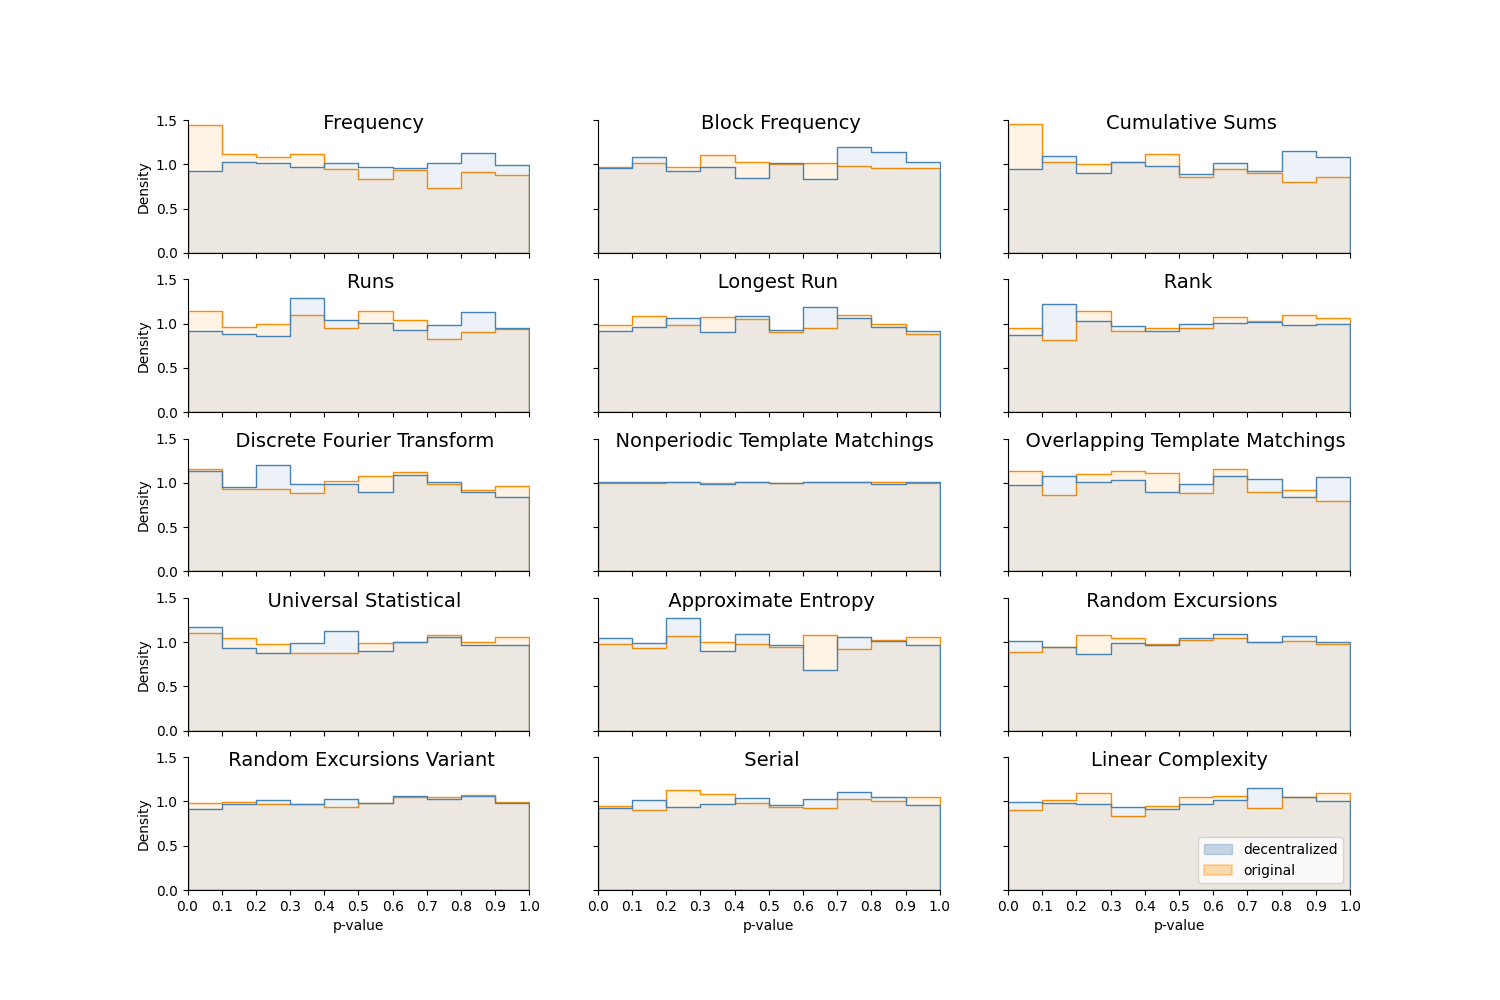
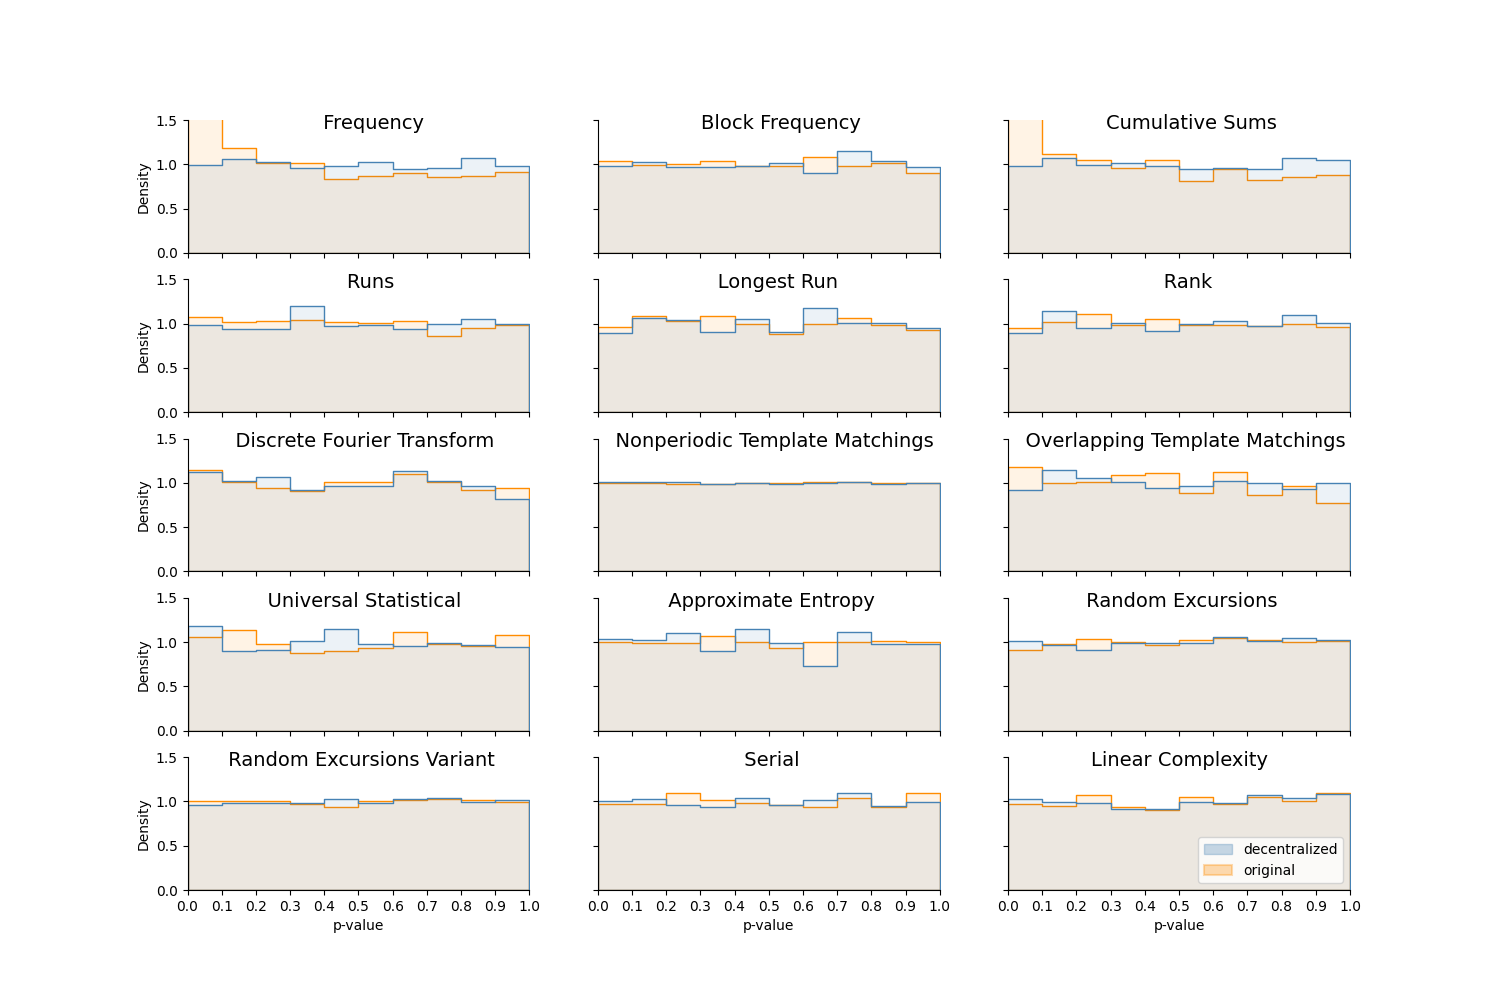
results graph (without 'discussion section')

diff --git a/report/Texts/5.Evaluations.tex b/report/Texts/5.Evaluations.tex
@@ -72,7 +72,7 @@ Each test produces a p-value representing how likely the data could be produced 
 If the data are truly random, the distribution of p-values across many samples should itself follow a uniform distribution.
 
 We compare the statistical results of our implementation with those of the original Sphinx implementation by Danezis\footnote{\href{https://github.com/UCL-InfoSec/sphinx}{https://github.com/UCL-InfoSec/sphinx}}.
-All graphs presented in this section correspond to the results of the NIST statistical test suite applied to {\color{red}20} distinct datasets.
+All graphs presented in this section correspond to the results of the NIST statistical test suite applied to 20 distinct datasets.
 Each dataset is generated under a different setup configuration to assess the variability and robustness of our implementation.
 
 To generate a dataset, we simulate a network of 20 mixnodes and 3 trusted third parties (TTPs). 
@@ -84,82 +84,53 @@ According to the NIST documentation, the statistical test suite requires input s
 To meet this requirement, generated headers are concatenated until the total length reaches $1\,000\,000$ bits. 
 Each dataset contains 100 of those concatenated sequences.
 
+NIST outlines two approaches for interpreting the empirical results of its statistical test suite.
+The first assesses the proportion of sequences that pass each statistical test, as shown in Fig.\ref{fig:proportion}.
+The second evaluates whether the distribution of p-values is statistically uniform, as would be expected from random sequences.
+These results are presented in Fig.\ref{fig:chisquare}.
 
-NIST outlines two approaches for interpreting the empirical results of its statistical test suite. 
-The first approach analyzes the proportion of sequences that successfully pass a given statistical test. 
-The second examines whether the distribution of p-values is uniform, as would be expected from a truly random source.
-
-\subsubsection{Proportion of successful sequences}
-
-\begin{figure}[H]
+\begin{figure}
     \centering
     % \hspace*{-1cm}
-    \includegraphics[width=1.\linewidth]{Images/proportion.png}
-    \caption{Proportion of successful sequences from our implementation and the original Sphinx over the fifteen NIST SP 800-22 statistical tests (significance level = $0.01$).}
+    \includegraphics[width=1.\linewidth]{Images/proportion_dot.png}
+    \caption{Proportion of successful sequences from our implementation and the original Sphinx implementation over the fifteen NIST SP 800-22 statistical tests (significance level = $0.01$).}
     \label{fig:proportion}
 \end{figure}
 
-\subsubsection{Uniformity of P-values}
+Figure \ref{fig:proportion} shows the proportion of sequences that successfully pass each statistical test for both our implementation and the original Sphinx implementation.  
+Following the NIST guidelines, the significance level is set to $ \alpha = 0.01 $, and the confidence interval is defined as:
+$$
+(1 - \alpha) \pm 3 \sqrt{\frac{\alpha (1 - \alpha)}{m}},
+$$
+where $ m $ denotes the number of samples.
 
-\begin{figure}[H]
+Our implementation fails only three tests: \textit{Nonperiodic Template Matching}, \textit{Random Excursions}, and \textit{Random Excursions Variant}, all of which are also failed by the original Sphinx implementation.  
+In contrast, our implementation successfully passes three tests that the original implementation fails: \textit{Frequency}, \textit{Cumulative Sums}, and \textit{Overlapping Template Matching}.
+
+\begin{figure}
     \centering
-    \hspace*{-2cm}
-    \includegraphics[width=1.3\linewidth]{Images/hist_p-values.png}
+    % \hspace*{-2cm}
+    \includegraphics[width=1.\linewidth]{Images/hist_p-values.png}
     \caption{P-value distribution comparison between our implementation and the original Sphinx across the fifteen NIST SP 800-22 statistical tests.}
     \label{fig:hist_p-values}
 \end{figure}
 
+Figure \ref{fig:hist_p-values} presents the distribution of p-values obtained for each test.  
+This figure is intended solely for visual inspection.   
+A Chi-square test is performed on each histogram to assess their uniformity.
+The results are shown in Figure \ref{fig:chisquare}, with a significance threshold of $0.0001$ as recommended by the NIST guidelines.
+
+Two Chi-square results stand out: the \textit{Frequency} and \textit{Cumulative Sums} tests.  
+Both were successful for our implementation, despite failing for the orignal Sphinx implementation.
+
 \begin{figure}[H]
     \centering
     % \hspace*{-1cm}
-    \includegraphics[width=1.\linewidth]{Images/p-values-of-p-values.png}
+    \includegraphics[width=1.\linewidth]{Images/chisquare.png}
     \caption{Chi-square test assessing the uniformity of p-value distributions for each dataset across the fifteen NIST SP 800-22 statistical tests.}
-    \label{fig:p-values-of-p-values}
+    \label{fig:chisquare}
 \end{figure}
 
-
-
-
-%%%%%%%%
-
-% For our prototype, we simulate a network of 20 mixnodes and 3 TTPs.\newline 
-% At each iteration:
-% \begin{itemize}
-%     \item A random destination IP and path of 3 mixnodes are selected;
-%     \item The client generates shares and distributes them to the three TTPs;
-%     \item 
-% \end{itemize}
-
-% Each run produces 4 headers (one per hop).
-% We perform 100 000 runs, resulting in a 400 000 x 1792 matrix (400 000 headers of 1792 bits).
-% Then we apply the NIST tests to each:
-% \begin{itemize}
-%     \item header independently (i.e. row-wise) to obtain p-value distributions across headers (Figure \ref{fig:sp_800-22_hist_headerwise}).
-%     \item bit independently (i.e. column-wise) to ensure no bias exists in specific bit positions (Figure \ref{fig:sp_800-22_hist_bitwise}).
-% \end{itemize}
-
-% For comparison, we conduct the same evaluation on the original Sphinx implementation by Danezis\footnote{\href{https://github.com/UCL-InfoSec/sphinx}{https://github.com/UCL-InfoSec/sphinx}}, which produces 400 000 headers of 1634 bits. 
-% Figures \ref{fig:sp_800-22_hist_headerwise} and \ref{fig:sp_800-22_hist_bitwise} compare header randomness of our implementation (in orange) with the original implementation (in blue).
-% \begin{figure}[H]
-%     \centering
-%     \includegraphics[width=0.9\linewidth]{Images/25-05-19-runwise_comparison_400000h-20n-3m-3p5.png}
-%     \caption{Distribution of NIST SP 800-22 p-values across 400 000 headers (headerwise evaluation).}
-%     \label{fig:sp_800-22_hist_headerwise}
-% \end{figure}
-% \begin{figure}[H]
-%     \centering
-%     \includegraphics[width=0.9\linewidth]{Images/25-05-19-bitwise_comparison_400000h-20n-3m-3p5.png}
-%     \caption{Distribution of NIST SP 800-22 p-values per bit across 400 000 headers (bitwise evaluation).}
-%     \label{fig:sp_800-22_hist_bitwise}
-% \end{figure}
-
-% Some deviations in the histograms arise from the limited size of the bitstrings (1634 or 1792 bits), which introduces quantization effects. 
-% In particular, the slight distortion in the first test of Figure \ref{fig:sp_800-22_hist_headerwise} reflects the granularity of possible p-values for short inputs. 
-% Variations in Figure \ref{fig:sp_800-22_hist_bitwise} are due to the small amount of p-values (1634 or 1792).
-% Increasing the histogram bin size mitigates these artifacts and confirms that the underlying distributions remain approximately uniform.
-
-% In both evaluations, the distributions of p-values are approximately uniform, which suggests that headers are statistically indistinguishable from random data, 
-% and therefore indicates strong linkability resistance, comparable to the original Sphinx implementation.
 
 \subsection{Discussion}
 
@@ -168,3 +139,53 @@ why they hold. If we have research questions from \ref{sec:related}, answer
 them. Summarize overheads impacts and discuss feasibility in the context of
 Nym.}
 
+\begin{table}[ht]
+\centering
+\caption{Statistical test summary for both implementations (\CIRCLE~=~Pass, \Circle~=\enspace Fail)}
+\begin{tabular}{|l|cc|cc|}
+\hline
+                                & \multicolumn{2}{c|}{\textbf{Decentralized}}   & \multicolumn{2}{c|}{\textbf{Original}} \\
+\cline{2-5}
+                                & \textbf{\tiny Excessive}    & \textbf{\tiny Lacks}        & \textbf{\tiny Excessive} & \textbf{\tiny Lacks} \vspace*{-1.5mm} \\
+\textbf{Statistical Test}       & \textbf{\tiny Rejections}   & \textbf{\tiny Uniformity}   & \textbf{\tiny Rejections} & \textbf{\tiny Uniformity} \\
+\hline
+Frequency                       & \CIRCLE               & \CIRCLE               & \Circle            & \Circle     \\
+Block Frequency                 & \CIRCLE               & \CIRCLE               & \CIRCLE            & \CIRCLE     \\
+Cumulative Sums                 & \CIRCLE               & \CIRCLE               & \Circle            & \Circle     \\
+Runs                            & \CIRCLE               & \CIRCLE               & \CIRCLE            & \CIRCLE     \\
+Longest Run                     & \CIRCLE               & \CIRCLE               & \CIRCLE            & \CIRCLE     \\
+Rank                            & \CIRCLE               & \CIRCLE               & \CIRCLE            & \CIRCLE     \\
+Discrete Fourier Transform      & \CIRCLE               & \CIRCLE               & \CIRCLE            & \CIRCLE     \\
+Nonperiodic Template Matchings  & \Circle               & \CIRCLE               & \Circle            & \CIRCLE     \\
+Overlapping Template Matchings  & \CIRCLE               & \CIRCLE               & \Circle            & \CIRCLE     \\
+Universal Statistical           & \CIRCLE               & \CIRCLE               & \CIRCLE            & \CIRCLE     \\
+Approximate Entropy             & \CIRCLE               & \CIRCLE               & \CIRCLE            & \CIRCLE     \\
+Random Excursions               & \Circle               & \CIRCLE               & \Circle            & \CIRCLE     \\
+Random Excursions Variant       & \Circle               & \CIRCLE               & \Circle            & \CIRCLE     \\
+Serial                          & \CIRCLE               & \CIRCLE               & \CIRCLE            & \CIRCLE     \\
+Linear Complexity               & \CIRCLE               & \CIRCLE               & \CIRCLE            & \CIRCLE     \\
+\hline
+\end{tabular}
+\label{tab:test_summary}
+\end{table}
+
+% \begin{table}[ht]
+% \centering
+% \caption{Summary of statistical test anomalies.}
+% \begin{tabular}{|p{3.2cm}||>{\centering\arraybackslash}p{1.6cm}>{\centering\arraybackslash}p{1.6cm}|>{\centering\arraybackslash}p{1.6cm}>{\centering\arraybackslash}p{1.6cm}|}
+% \hline
+% \textbf{Statistical Test} 
+% & \multicolumn{2}{c|}{\textbf{Decentralized}} 
+% & \multicolumn{2}{c|}{\textbf{Original}} \\
+% \cline{2-5}
+% & \textbf{Excessive Rej.} & \textbf{Non-Uniform} 
+% & \textbf{Excessive Rej.} & \textbf{Non-Uniform} \\
+% \hline
+% Frequency                     & \CIRCLE & \CIRCLE & \CIRCLE & \CIRCLE \\
+% Block Frequency               & \CIRCLE & \CIRCLE & \CIRCLE & \CIRCLE \\
+% Cumulative Sums              & \CIRCLE & \CIRCLE & \CIRCLE & \CIRCLE \\
+% % ... add more rows
+% \hline
+% \end{tabular}
+% \label{tab:stat_anomalies}
+% \end{table}

diff --git a/report/main.tex b/report/main.tex
@@ -19,6 +19,8 @@
 \usepackage{paralist}
 \usepackage{enumitem}
 
+\usepackage{wasysym} % Add this in your preamble for the circle symbols
+
 % Enumerator for Objectives
 \newlist{objectives}{enumerate}{2}
 \setlist[objectives,1]{label=O\arabic*.,ref=O\arabic*}
